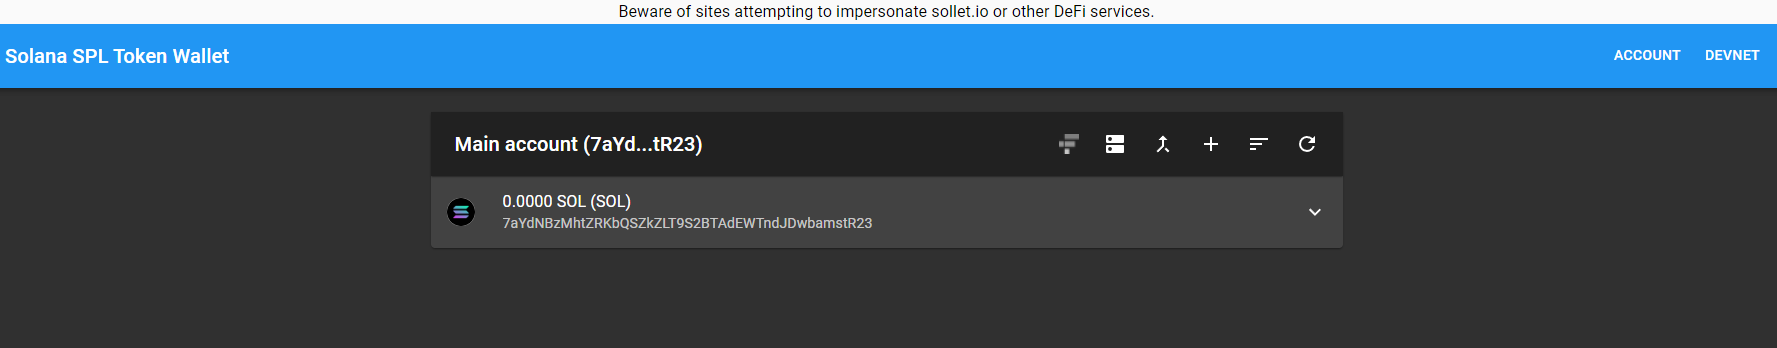
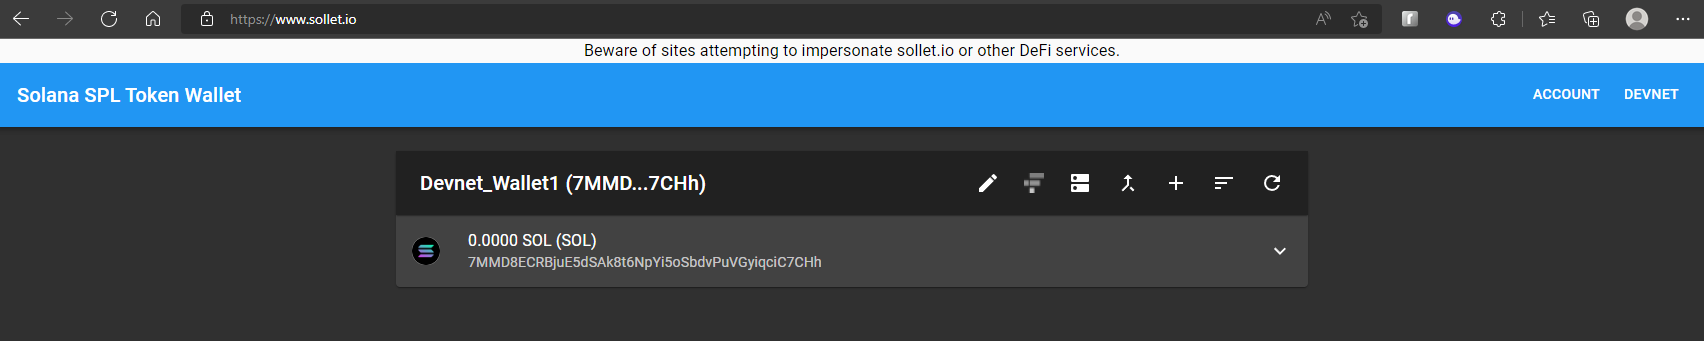
Updated devnet swap with more text and examples

diff --git a/docusaurus/sidebars.js b/docusaurus/sidebars.js
@@ -37,6 +37,7 @@ const sidebars = {
     },
     'overview/resources',
     'showcase',
+    'changelog'
   ],
   API: [
     {

diff --git a/docusaurus/docs/guides/swap.md b/docusaurus/docs/guides/swap.md
@@ -3,7 +3,7 @@ title: Swap Demo
 ---
 
 This section shows how to use the Raydium SDK to swap tokens for [mainnet](#mainnet) and
-[devnet](#devnet). Swapping tokens depends
+[devnet](#devnet).
 
 For now, mainnet is recommended because devnet is limited and has issues
 that otherwise would not appear on mainnet.
@@ -13,8 +13,7 @@ Credit goes to Rayxury from [Raydium's developers' discord](https://discord.com/
 ## Devnet
 
 This section steps through a brand new devnet wallet installation that is airdropped
-SOL, USDC, and Ray tokens. The SDK is then used to swap the Ray token using
-devnet's RAY-USDC pool.
+SOL, USDC, and Ray tokens. The SDK is then used to swap USDC into RAY using the RAY-USDC pool.
 
 ### 1. Wallet Install
 
@@ -33,51 +32,127 @@ Once created, the wallet should show up like the following:
 
 ### 3. Airdrop SOL
 
-Airdrop SOL to your wallet using [https://www.spl-token-ui.com](https://www.spl-token-ui.com/#/sol-airdrop)
-while ensuring you're on devnet.
+Airdrop SOL to your devnet wallet. This will be used in subsequent transactions.
+
+1. Navigate to [https://www.spl-token-ui.com](https://www.spl-token-ui.com/#/sol-airdrop)
+2. Ensure you've selected devnet in the top right navigation bar dropdown
+
+![devnet_sol_airdrop](/img/guides/spl-token-airdrop-sol.png)
+
+3. Fill out the SOL address using the address from step 2 and put 2 for the amount
+   of SOL to airdrop. It may require a few tries before you see the SOL in your wallet. While 10 SOL is the max that can requested at once, it may not always deliver, so you may have to try smaller amounts like 2 or 3, and attempt it a few times.
 
 :::note
-Sometimes the amount airdropped may need to be reduced
-for faster transmission (e.g. airdrop 1-2 SOL instead of 10).
-
 The spl-token-ui.com is open sourced at https://github.com/paul-schaaf/spl-token-ui
 :::
 
+4. Once the airdrop is successful, you should see the SOL token in your wallet:
+
+![devnet_sol_in_wallet](/img/guides/spl-token-sol-in-wallet.png)
+
 ### 4. Add USDC and Ray to your wallet
 
-Add USDC and Ray to your wallet using the following mint addresses
+In devnet, unlike mainnet, we need to manually add the USDC and
+Ray tokens so they're visible in your wallet.
+
+1. In the Sollet wallet, click the "Add Token" button
+
+![add_manual_token](/img/guides/sollet-add-token.png)
+
+2. Ensure the Manual Input tab is selected
+
+![add_manual_token](/img/guides/sollet-add-token-fields.png)
+
+3. Add USDC:
 
 ```
-Ray Mint: FSRvxBNrQWX2Fy2qvKMLL3ryEdRtE3PUTZBcdKwASZTU
-USDC Mint: BEcGFQK1T1tSu3kvHC17cyCkQ5dvXqAJ7ExB2bb5Do7a
+Token Mint Address: BEcGFQK1T1tSu3kvHC17cyCkQ5dvXqAJ7ExB2bb5Do7a
+Token Name: USDC
+Token Symbol: USDC
+```
+
+![add](/img/guides/add-usdc-wallet.png)
+
+4. Add RAY:
+
+```
+Token Mint Address: FSRvxBNrQWX2Fy2qvKMLL3ryEdRtE3PUTZBcdKwASZTU
+Token Name: Raydium
+Token Symbol: RAY
 ```
 
 ![add](/img/guides/add-ray-wallet.png)
 
-![add](/img/guides/add-usdc-wallet.png)
-
-Expand the details of each token's "Associated Token Metadata", as they will be used
-in the next step
+5. After adding the tokens, you may need to refresh your wallet but this
+   should appear like the following after expanding the details:
 
 ![add](/img/guides/token_addresses.png)
 
-### 5. Airdrop USDC and Ray to your wallet
-
-Airdrop USDC and Ray to your wallet using [https://www.spl-token-ui.com](https://www.spl-token-ui.com/#token-faucets)
-while ensuring you're on devnet and using the below faucets:
-
-```
-USDC Faucet: Bz3PCWk7B5J1FoR1W5WYHSLJQGQaR8qAnWTPurUxYrAk
-Ray Faucet: 8zziYhuA792dHEASjkvUNVqF71PzeCwsi4y77VBjhFRq
-```
-
-In the "Token destination address\*" use the "Associated Token Metadata" addresses saved from step 4.
-
 :::note
-Make sure you select devnet at the top right.
+Take note of the "Associated Token Metadata" addresses as they will be
+used to airdrop tokens in Step 5.
 :::
 
+### 5. Airdrop USDC and Ray to your wallet
+
+Now we will airdrop USDC and Ray to your wallet.
+
+1. Navigate to [https://www.spl-token-ui.com](https://www.spl-token-ui.com/#token-faucets)
+2. Select "devnet" from the top right navbar
+
+:::note
+
+If you forget this step or enter an invalid address, you may encounter an error like
+
+"Error calculating mint address from token account. Are you sure you inserted a valid token account address"
+:::
+
+3. Select the "Token Airdrop" button
+4. In order to airdrop USDC to your wallet, you should enter the following for the inputs:
+
+Token destination address: This is the "Associated Token Metadata" address from step 4
+Faucet Address: This is the USDC faucet address
+Amount:
+
+Here's some example fields for USDC:
+
+```
+Token destination address: 4rrMpBvHAwwPtiQxcRCsQiHaYYxwvZsMTcPjcG7ig7ff
+Faucet address: Bz3PCWk7B5J1FoR1W5WYHSLJQGQaR8qAnWTPurUxYrAk
+Amount: 100000
+```
+
+Here's examples fields for RAY:
+
+```
+Token destination address: 8Nr8bEZabzRrzd2FpZumDgEmuZHk9ESXatTkM3wu4N9e
+Faucet address: 8zziYhuA792dHEASjkvUNVqF71PzeCwsi4y77VBjhFRq
+Amount: 100000
+```
+
+:::note
+The amount of 100,000 equates to 0.10 USDC or 0.10 RAY. At the time of this writing,
+values greater than 100,000 appear to fail with the following error:
+
+failed to send transaction: Transaction simulation failed: Error processing Instruction 0: custom program error: 0x4
+:::
+
+5. For the Sollet wallet, you will be prompted to allow access to the https://www.spl-token-ui.com website with a browser window popup, so
+   press "Connect" when it appears
+
 ![airdrop_usdc](/img/guides/airdrop_usdc.png)
+
+6. After pressing "Connect", you'll then be prompted to approve the swap transaction:
+
+![airdrop_usdc](/img/guides/approve-faucet.png)
+
+7. Finally, you hopefully see a successful transaction
+
+![airdrop_usdc_success](/img/guides/faucet-airdrop-success.png)
+
+8. After you've airdropped a number of tokens, you should see updated balances in your wallet:
+
+![devnet_balances](/img/guides/devnet_sollet_updated_balances.png)
 
 ### 6. Save wallet private key
 
@@ -86,21 +161,54 @@ to save the private key, which is an array of numbers.
 
 ![airdrop_usdc](/img/guides/sollet_export.png)
 
+![private_key_export](/img/guides/wallet_private_key_export.png)
+
 ### 7. Execute Swap
 
-Git clone the sdk_demo repo.
+1. Git clone the sdk_demo repo and build it
 
 ```shell
+# Clone the repo demo
 git clone https://github.com/raydium-io/sdk_demo/
+
+# As sdk_demo is an evolving project, this tutorial will focus on a particular verison from May 2, 2022
+git checkout e14585ef5d31c909ab0b9506b4679acbf3816227
+
+# Build dependencies
 yarn
 ```
 
-Modify the array in the secretKey wtih your wallet's private key
+2. Modify src/swap_dev.ts with your wallet's private key
+
+Open src/swap/swap_dev.ts and update the secretKey using your wallet's private key from step 6:
 
 ```tsx
 // Replace '[1,1,1,1,1]' with your key
 const secretKey = Buffer.from(JSON.parse("[1,1,1,1,1]"));
 ```
+
+3. Modify src/swap_dev.ts to swap USDC into RAY
+
+For the POOL_ID, comment out SOL-USDT and instead use RAY_USDC
+
+```tsx
+// SOL-USDT
+// const POOL_ID = "384zMi9MbUKVUfkUdrnuMfWBwJR9gadSxYimuXeJ9DaJ"
+
+// RAY_USDC
+const POOL_ID = "ELSGBb45rAQNsMTVzwjUqL8vBophWhPn4rNbqwxenmqY";
+```
+
+4. Modify src/swap_dev.ts to use a different amount
+
+Update the amountIn from 1,000,000 to 100, or else the transaction will
+likely fail unless you have enough USDC in your wallet.
+
+```tsx
+const amountIn = new TokenAmount(new Token(poolKeys.baseMint, poolInfo.baseDecimals), 100);
+```
+
+4. Execute the devnet swap
 
 ```shell
 yarn dev
@@ -109,16 +217,25 @@ yarn dev
 The program should hopefully run successfully with output similar to the following
 
 ```
-5TieXkdUrh9ZPCHp4qwtaEpF7qc27kGwfyinUge4Bn5j
+7MMD8ECRBjuE5dSAk8t6NpYi5oSbdvPuVGyiqciC7CHh
 tokenAccounts.length: 2
-allPoolKeys.length: 18
+allPoolKeys.length: 21
 ...
-0.009974 0.009499 9.994006 9.993988 0.00 0.000002
-https://explorer.solana.com/tx/4xAW8wxBfhEqTDnHzhSJgpaosBnixAufVZFu8hFyhS2CTbs2fgbDptQKw4eLvAaQGPVt76uR5u7bbJGEsrhgVmN4?cluster=devnet
-Done in 8.65s.
+0.000997 0.000949 9.978050 9.970000 0.08 0.000000
+https://explorer.solana.com/tx/VRw6ZCZ1uzBSBdCXEhN6o2rz3CsqmQSKyNdW9UGK2B7WyfouhBJ6XQU5DEonpYFTN83woxVg3zMG1yVW2EGvoLe?cluster=devnet
+Done in 7.52s.
+
 ```
 
-![solscan_success](/img/guides/solscan_success.png)
+You can see a successful swap [here](https://explorer.solana.com/tx/VRw6ZCZ1uzBSBdCXEhN6o2rz3CsqmQSKyNdW9UGK2B7WyfouhBJ6XQU5DEonpYFTN83woxVg3zMG1yVW2EGvoLe?cluster=devnet)
+
+### 8. Verify the swap transaction
+
+Finally, you can verify that USDC was swapped into RAY by looking at your wallet:
+
+Here is an example where 0.001 USDC was swapped into 0.001 RAY. Originally the wallet had 0.1 USDC and 0.1 RAY before the swap:
+
+![devnet_swap_verification](/img/guides/devnet_swap_verification.png)
 
 ---
 

diff --git a/docusaurus/docs/swap-widget/getting-started.md b/docusaurus/docs/swap-widget/getting-started.md
@@ -1,5 +1,5 @@
 ---
-title:  Getting Started
+title: Getting Started
 ---
 
 Coming soon. This section will show a plug and play swap widget component for integration.
